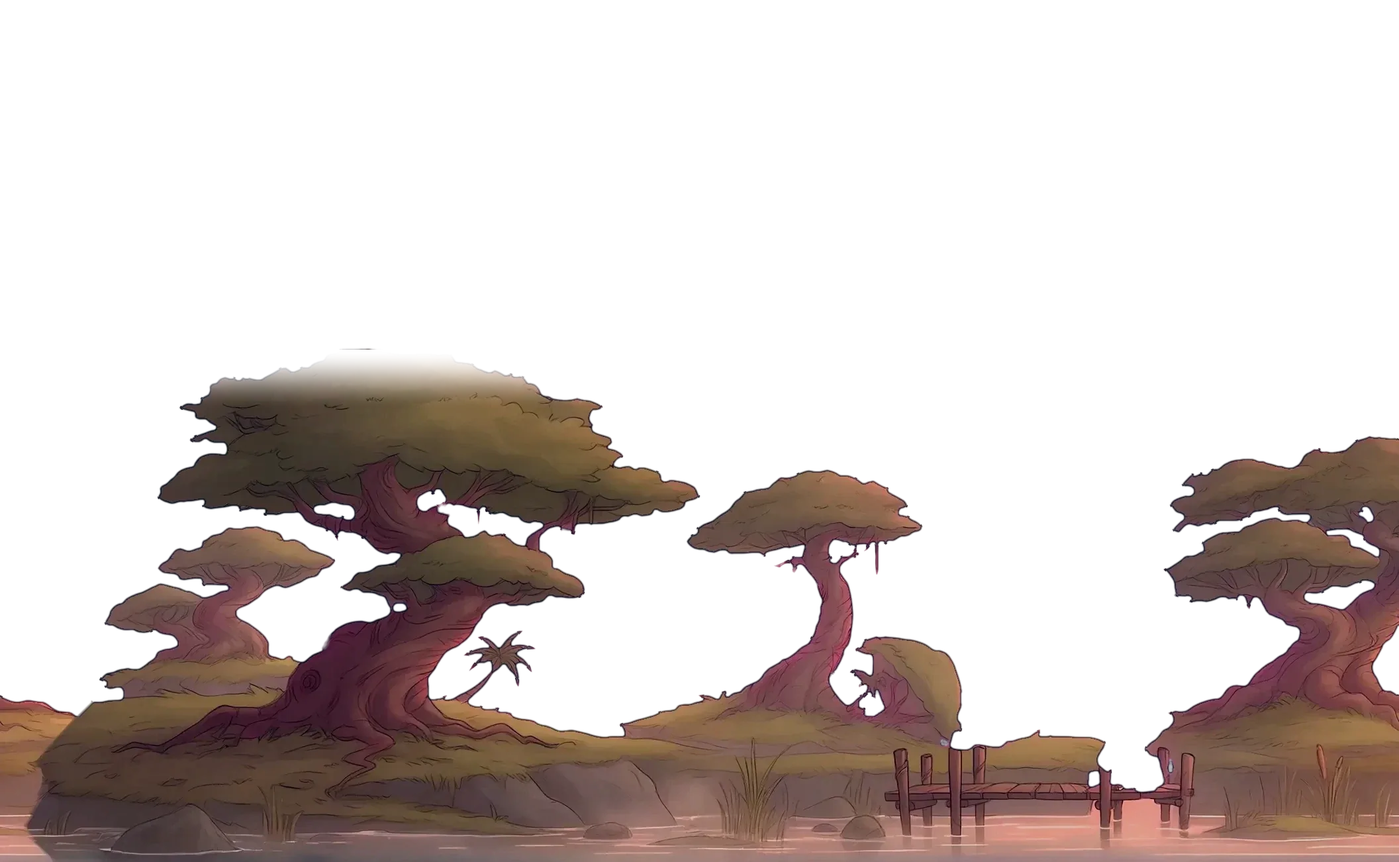
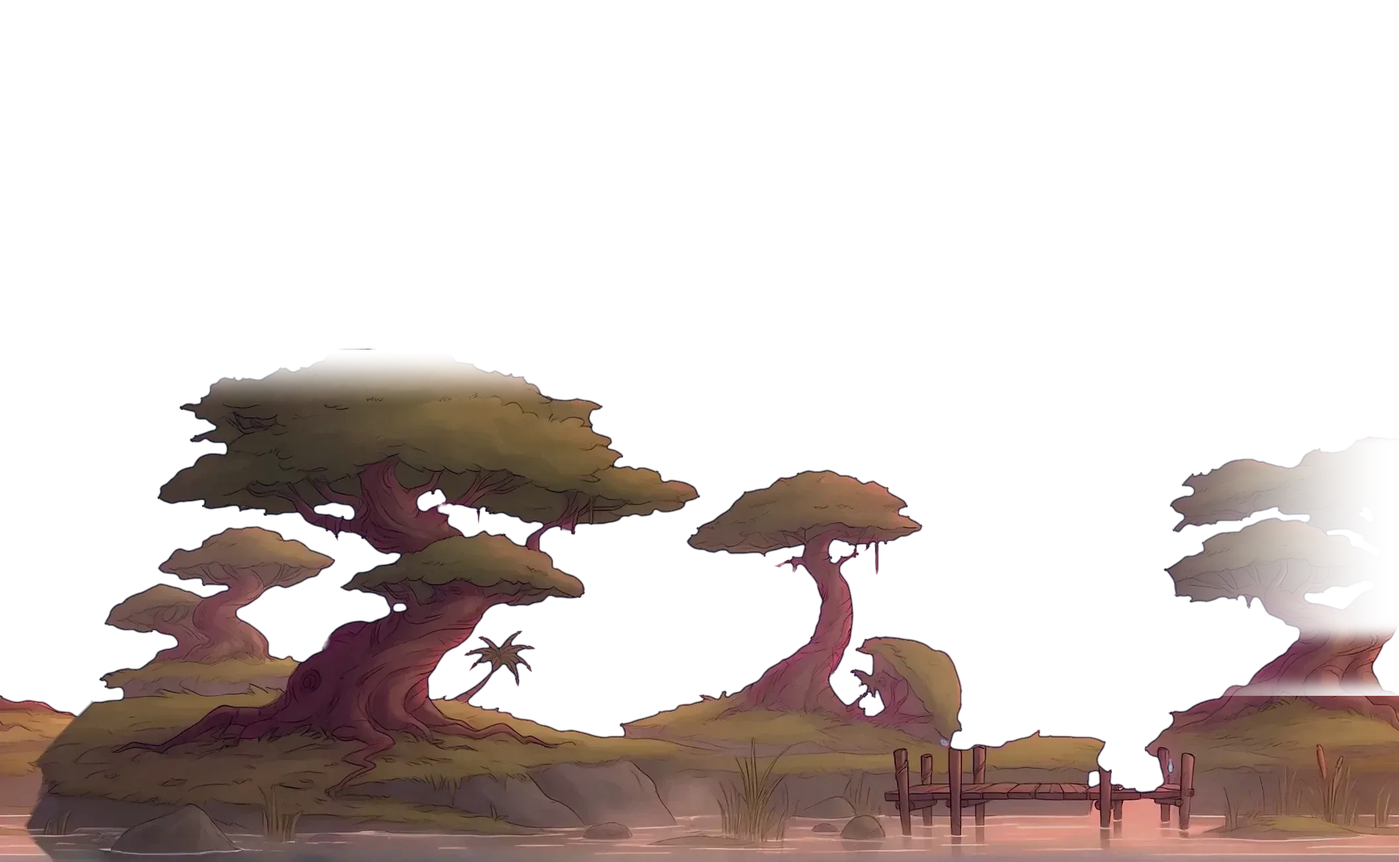
FIX-21: 2-1 relisted on the bounce-alone rule; a safe river's over pass is a band of its own shallow water; w2mist-mid's wrap join feathered
Relist (addlevel 2-1 --relist): seed list --check PASS, flown on normal-2-1. engine.ts drawRivers: a safe river's over pass draws
riverArt.ts drawSafeRiverOver (the shallow strip's top rows, SAFE_OVER 4 px above to 16 below the surface, 0.6), never the deep sheet to
the screen's foot (the lead's still review 1:36 PM ET). w2mist-mid.webp: tools/art/stripjoin.py feather (21.9% of rows cut at the join ->
0.1%; the hard panel edges in World 2's backdrop), as INT-9 did for w1kapok-mid.

Claude-Session: https://claude.ai/code/session_01FhBbYKAPWpYnKRcAy8Ntms

Changed region(s): [[0.8434, 0.4916, 1.0, 0.8295]]

diff --git a/src/game/gen2/proven/seeds-2-1.ts b/src/game/gen2/proven/seeds-2-1.ts
@@ -2,4 +2,4 @@
 // its proven plan packed (seedList.ts packPlan: Play replays it); quiet: each seed's longest quiet stretch on Normal (s, the goal run-out
 // excluded); outro: the goal section's px. Loaded on its own (seedList.ts loadSeedList): never import this file by name from the game.
 import type { PackedList } from '../seedList.ts';
-export const LIST: PackedList = {"dict":["body=edge","w2-21-edge","body=lianas","w2-21-down","body=shore","w2-21-rest","body=ride","w2-21-first-log","w2-21-bank","body=deep","w2-21-deep","body=liana","w2-21-creek","body=back","w2-21-back","body=spring","w2-21-high-bank","body=twin","w2-21-both-ways","body=jetty","w2-21-jetty","body=long","w2-21-long-log","body=gate","w2-21-gate"],"seeds":[1,2,3,4,5,6,7,8,9,10,11,12,13,14,15,16,17,18,19,20,21,22,23,24,25,26,27,28,29,30,31,32,33,34,35,36,37,38,39,40,41,42,43,44,45,46,47,48,49,50,51,52,53,54,55,56,57,58,59,60,61,62,63,64,65,66,67,68,69,70,71,72,73,74,75,76,77,78,79,80,81,82,83,84,85,86,87,88,89,90,91,92,93,94,95,96,97,98,99,100],"plans":["1:0|1.s.0.;3.s.2.;5.w.4.;7.w.6.;8.p.4.;5.w.4.;10.s.9.;5.w.4.;12.w.11.;14.w.13.;5.s.4.;16.p.15.;18.s.17.;20.s.19.;5.s.4.;22.p.21.;24.s.23.|","2:0|1.w.0.;3.w.2.;5.w.4.;7.w.6.;8.p.4.;5.s.4.;10.p.9.;5.w.4.;12.s.11.;14.p.13.;5.s.4.;16.w.15.;18.w.17.;20.p.19.;5.w.4.;22.p.21.;24.w.23.|","3:0|1.w.0.;3.p.2.;5.w.4.;7.w.6.;8.p.4.;5.s.4.;10.p.9.;5.w.4.;12.s.11.;14.s.13.;5.w.4.;16.w.15.;18.p.17.;20.s.19.;5.w.4.;22.p.21.;24.w.23.|","4:0|1.w.0.;3.w.2.;5.w.4.;7.s.6.;8.p.4.;5.w.4.;10.w.9.;5.w.4.;12.w.11.;14.w.13.;5.s.4.;16.w.15.;18.w.17.;20.s.19.;5.w.4.;22.w.21.;24.w.23.|","5:0|1.w.0.;3.s.2.;5.w.4.;7.w.6.;8.w.4.;5.w.4.;10.p.9.;5.s.4.;12.p.11.;14.s.13.;5.s.4.;16.p.15.;18.s.17.;20.w.19.;5.s.4.;22.s.21.;24.s.23.|","6:0|1.w.0.;3.s.2.;5.s.4.;7.s.6.;8.s.4.;5.w.4.;10.p.9.;5.w.4.;12.s.11.;14.s.13.;5.w.4.;16.w.15.;18.w.17.;20.w.19.;5.w.4.;22.s.21.;24.w.23.|","7:0|1.s.0.;3.w.2.;5.s.4.;7.w.6.;8.s.4.;5.w.4.;10.p.9.;5.w.4.;12.p.11.;14.s.13.;5.w.4.;16.p.15.;18.w.17.;20.s.19.;5.s.4.;22.p.21.;24.w.23.|","8:0|1.w.0.;3.p.2.;5.s.4.;7.s.6.;8.w.4.;5.w.4.;10.w.9.;5.w.4.;12.w.11.;14.p.13.;5.s.4.;16.p.15.;18.p.17.;20.p.19.;5.w.4.;22.w.21.;24.w.23.|","9:0|1.w.0.;3.p.2.;5.s.4.;7.s.6.;8.w.4.;5.w.4.;10.s.9.;5.s.4.;12.s.11.;14.p.13.;5.w.4.;16.s.15.;18.w.17.;20.p.19.;5.s.4.;22.w.21.;24.s.23.|","10:0|1.s.0.;3.s.2.;5.w.4.;7.p.6.;8.s.4.;5.w.4.;10.w.9.;5.s.4.;12.w.11.;14.w.13.;5.s.4.;16.p.15.;18.s.17.;20.w.19.;5.s.4.;22.p.21.;24.s.23.|","11:0|1.s.0.;3.p.2.;5.w.4.;7.s.6.;8.p.4.;5.s.4.;10.w.9.;5.s.4.;12.s.11.;14.p.13.;5.w.4.;16.w.15.;18.p.17.;20.p.19.;5.w.4.;22.w.21.;24.w.23.|","12:0|1.w.0.;3.p.2.;5.s.4.;7.s.6.;8.w.4.;5.s.4.;10.w.9.;5.s.4.;12.s.11.;14.p.13.;5.s.4.;16.p.15.;18.p.17.;20.w.19.;5.w.4.;22.p.21.;24.w.23.|","13:0|1.w.0.;3.w.2.;5.w.4.;7.s.6.;8.w.4.;5.w.4.;10.p.9.;5.w.4.;12.w.11.;14.s.13.;5.w.4.;16.w.15.;18.w.17.;20.w.19.;5.w.4.;22.w.21.;24.s.23.|","14:0|1.w.0.;3.s.2.;5.w.4.;7.s.6.;8.p.4.;5.w.4.;10.p.9.;5.s.4.;12.w.11.;14.p.13.;5.w.4.;16.w.15.;18.p.17.;20.p.19.;5.w.4.;22.p.21.;24.w.23.|","15:0|1.s.0.;3.p.2.;5.w.4.;7.w.6.;8.w.4.;5.s.4.;10.p.9.;5.s.4.;12.p.11.;14.s.13.;5.s.4.;16.s.15.;18.w.17.;20.w.19.;5.s.4.;22.p.21.;24.s.23.|","16:0|1.w.0.;3.w.2.;5.w.4.;7.s.6.;8.s.4.;5.s.4.;10.s.9.;5.s.4.;12.w.11.;14.p.13.;5.w.4.;16.w.15.;18.p.17.;20.w.19.;5.w.4.;22.s.21.;24.w.23.|","17:0|1.s.0.;3.w.2.;5.s.4.;7.w.6.;8.p.4.;5.w.4.;10.w.9.;5.s.4.;12.p.11.;14.w.13.;5.s.4.;16.s.15.;18.p.17.;20.s.19.;5.s.4.;22.p.21.;24.s.23.|","18:0|1.w.0.;3.w.2.;5.w.4.;7.p.6.;8.s.4.;5.w.4.;10.w.9.;5.s.4.;12.w.11.;14.s.13.;5.w.4.;16.w.15.;18.p.17.;20.w.19.;5.w.4.;22.p.21.;24.s.23.|","19:0|1.w.0.;3.p.2.;5.w.4.;7.s.6.;8.s.4.;5.w.4.;10.p.9.;5.w.4.;12.w.11.;14.s.13.;5.s.4.;16.w.15.;18.w.17.;20.p.19.;5.w.4.;22.p.21.;24.w.23.|","20:0|1.s.0.;3.w.2.;5.w.4.;7.s.6.;8.w.4.;5.s.4.;10.w.9.;5.w.4.;12.p.11.;14.w.13.;5.w.4.;16.s.15.;18.p.17.;20.s.19.;5.w.4.;22.p.21.;24.s.23.|","21:0|1.s.0.;3.w.2.;5.w.4.;7.s.6.;8.p.4.;5.w.4.;10.p.9.;5.s.4.;12.w.11.;14.p.13.;5.s.4.;16.w.15.;18.p.17.;20.s.19.;5.s.4.;22.w.21.;24.w.23.|","22:0|1.w.0.;3.w.2.;5.s.4.;7.w.6.;8.w.4.;5.s.4.;10.p.9.;5.w.4.;12.p.11.;14.w.13.;5.w.4.;16.w.15.;18.p.17.;20.w.19.;5.s.4.;22.s.21.;24.s.23.|","23:0|1.w.0.;3.s.2.;5.w.4.;7.s.6.;8.s.4.;5.w.4.;10.w.9.;5.w.4.;12.w.11.;14.s.13.;5.w.4.;16.p.15.;18.s.17.;20.w.19.;5.s.4.;22.w.21.;24.w.23.|","24:0|1.w.0.;3.w.2.;5.w.4.;7.s.6.;8.s.4.;5.s.4.;10.p.9.;5.w.4.;12.p.11.;14.p.13.;5.w.4.;16.w.15.;18.w.17.;20.s.19.;5.w.4.;22.w.21.;24.w.23.|","25:0|1.w.0.;3.w.2.;5.s.4.;7.s.6.;8.s.4.;5.s.4.;10.w.9.;5.s.4.;12.w.11.;14.s.13.;5.w.4.;16.s.15.;18.p.17.;20.w.19.;5.s.4.;22.w.21.;24.s.23.|","26:0|1.s.0.;3.s.2.;5.s.4.;7.s.6.;8.p.4.;5.s.4.;10.w.9.;5.w.4.;12.w.11.;14.p.13.;5.s.4.;16.p.15.;18.w.17.;20.w.19.;5.s.4.;22.p.21.;24.w.23.|","27:0|1.w.0.;3.w.2.;5.s.4.;7.w.6.;8.s.4.;5.s.4.;10.s.9.;5.w.4.;12.w.11.;14.p.13.;5.w.4.;16.s.15.;18.w.17.;20.s.19.;5.s.4.;22.p.21.;24.w.23.|","28:0|1.s.0.;3.p.2.;5.s.4.;7.s.6.;8.p.4.;5.w.4.;10.p.9.;5.s.4.;12.w.11.;14.p.13.;5.w.4.;16.p.15.;18.p.17.;20.w.19.;5.w.4.;22.w.21.;24.w.23.|","29:0|1.s.0.;3.s.2.;5.w.4.;7.s.6.;8.p.4.;5.w.4.;10.w.9.;5.w.4.;12.w.11.;14.w.13.;5.s.4.;16.p.15.;18.p.17.;20.w.19.;5.w.4.;22.p.21.;24.s.23.|","30:0|1.s.0.;3.s.2.;5.s.4.;7.w.6.;8.w.4.;5.w.4.;10.p.9.;5.w.4.;12.w.11.;14.p.13.;5.w.4.;16.s.15.;18.w.17.;20.s.19.;5.w.4.;22.s.21.;24.w.23.|","31:0|1.w.0.;3.p.2.;5.s.4.;7.s.6.;8.w.4.;5.s.4.;10.p.9.;5.w.4.;12.w.11.;14.w.13.;5.s.4.;16.w.15.;18.p.17.;20.p.19.;5.s.4.;22.p.21.;24.w.23.|","32:0|1.w.0.;3.p.2.;5.s.4.;7.s.6.;8.s.4.;5.s.4.;10.w.9.;5.w.4.;12.w.11.;14.w.13.;5.w.4.;16.w.15.;18.s.17.;20.w.19.;5.s.4.;22.w.21.;24.w.23.|","33:0|1.s.0.;3.w.2.;5.s.4.;7.s.6.;8.p.4.;5.w.4.;10.p.9.;5.w.4.;12.w.11.;14.p.13.;5.s.4.;16.p.15.;18.w.17.;20.w.19.;5.w.4.;22.s.21.;24.s.23.|","34:0|1.s.0.;3.p.2.;5.w.4.;7.s.6.;8.w.4.;5.w.4.;10.w.9.;5.w.4.;12.s.11.;14.p.13.;5.w.4.;16.s.15.;18.p.17.;20.s.19.;5.w.4.;22.w.21.;24.w.23.|","35:0|1.w.0.;3.w.2.;5.w.4.;7.s.6.;8.s.4.;5.s.4.;10.s.9.;5.w.4.;12.w.11.;14.p.13.;5.s.4.;16.w.15.;18.w.17.;20.s.19.;5.w.4.;22.w.21.;24.w.23.|","36:0|1.s.0.;3.w.2.;5.w.4.;7.s.6.;8.p.4.;5.s.4.;10.s.9.;5.s.4.;12.s.11.;14.w.13.;5.s.4.;16.w.15.;18.w.17.;20.s.19.;5.w.4.;22.w.21.;24.w.23.|","37:0|1.s.0.;3.p.2.;5.s.4.;7.s.6.;8.w.4.;5.w.4.;10.p.9.;5.w.4.;12.p.11.;14.p.13.;5.s.4.;16.s.15.;18.s.17.;20.p.19.;5.w.4.;22.w.21.;24.s.23.|","38:0|1.w.0.;3.p.2.;5.w.4.;7.s.6.;8.w.4.;5.w.4.;10.s.9.;5.w.4.;12.s.11.;14.s.13.;5.w.4.;16.p.15.;18.p.17.;20.w.19.;5.s.4.;22.p.21.;24.w.23.|","39:0|1.w.0.;3.w.2.;5.s.4.;7.s.6.;8.w.4.;5.w.4.;10.w.9.;5.s.4.;12.s.11.;14.p.13.;5.w.4.;16.p.15.;18.s.17.;20.w.19.;5.w.4.;22.w.21.;24.s.23.|","40:0|1.w.0.;3.w.2.;5.s.4.;7.w.6.;8.s.4.;5.w.4.;10.w.9.;5.s.4.;12.w.11.;14.s.13.;5.w.4.;16.s.15.;18.s.17.;20.w.19.;5.s.4.;22.w.21.;24.s.23.|","41:0|1.w.0.;3.w.2.;5.w.4.;7.s.6.;8.w.4.;5.w.4.;10.p.9.;5.w.4.;12.s.11.;14.s.13.;5.s.4.;16.w.15.;18.s.17.;20.s.19.;5.w.4.;22.w.21.;24.s.23.|","42:0|1.s.0.;3.w.2.;5.w.4.;7.s.6.;8.s.4.;5.w.4.;10.w.9.;5.w.4.;12.w.11.;14.s.13.;5.s.4.;16.p.15.;18.w.17.;20.s.19.;5.w.4.;22.s.21.;24.w.23.|","43:0|1.w.0.;3.w.2.;5.w.4.;7.p.6.;8.s.4.;5.w.4.;10.p.9.;5.s.4.;12.w.11.;14.p.13.;5.w.4.;16.p.15.;18.p.17.;20.w.19.;5.w.4.;22.p.21.;24.s.23.|","44:0|1.s.0.;3.p.2.;5.w.4.;7.w.6.;8.w.4.;5.s.4.;10.w.9.;5.w.4.;12.w.11.;14.s.13.;5.s.4.;16.w.15.;18.w.17.;20.w.19.;5.s.4.;22.s.21.;24.w.23.|","45:0|1.w.0.;3.s.2.;5.s.4.;7.w.6.;8.s.4.;5.s.4.;10.s.9.;5.s.4.;12.w.11.;14.w.13.;5.w.4.;16.s.15.;18.p.17.;20.w.19.;5.w.4.;22.p.21.;24.w.23.|","46:0|1.w.0.;3.w.2.;5.w.4.;7.w.6.;8.p.4.;5.w.4.;10.w.9.;5.w.4.;12.s.11.;14.s.13.;5.w.4.;16.s.15.;18.p.17.;20.s.19.;5.s.4.;22.p.21.;24.w.23.|","47:0|1.s.0.;3.w.2.;5.w.4.;7.w.6.;8.w.4.;5.s.4.;10.w.9.;5.w.4.;12.w.11.;14.p.13.;5.s.4.;16.w.15.;18.p.17.;20.w.19.;5.s.4.;22.s.21.;24.w.23.|","48:0|1.s.0.;3.s.2.;5.s.4.;7.p.6.;8.p.4.;5.s.4.;10.p.9.;5.w.4.;12.p.11.;14.s.13.;5.s.4.;16.w.15.;18.p.17.;20.p.19.;5.w.4.;22.p.21.;24.w.23.|","49:0|1.w.0.;3.p.2.;5.s.4.;7.w.6.;8.p.4.;5.w.4.;10.w.9.;5.w.4.;12.s.11.;14.w.13.;5.w.4.;16.w.15.;18.s.17.;20.s.19.;5.w.4.;22.s.21.;24.s.23.|","50:0|1.s.0.;3.p.2.;5.s.4.;7.w.6.;8.w.4.;5.w.4.;10.s.9.;5.w.4.;12.w.11.;14.w.13.;5.w.4.;16.w.15.;18.p.17.;20.p.19.;5.s.4.;22.p.21.;24.w.23.|","51:0|1.w.0.;3.p.2.;5.w.4.;7.w.6.;8.s.4.;5.s.4.;10.w.9.;5.s.4.;12.w.11.;14.p.13.;5.s.4.;16.p.15.;18.w.17.;20.w.19.;5.w.4.;22.p.21.;24.w.23.|","52:0|1.w.0.;3.p.2.;5.s.4.;7.s.6.;8.s.4.;5.s.4.;10.s.9.;5.w.4.;12.p.11.;14.s.13.;5.s.4.;16.w.15.;18.p.17.;20.p.19.;5.w.4.;22.w.21.;24.s.23.|","53:0|1.w.0.;3.s.2.;5.w.4.;7.s.6.;8.w.4.;5.w.4.;10.w.9.;5.w.4.;12.s.11.;14.p.13.;5.s.4.;16.w.15.;18.p.17.;20.p.19.;5.w.4.;22.s.21.;24.w.23.|","54:0|1.s.0.;3.s.2.;5.s.4.;7.p.6.;8.p.4.;5.s.4.;10.w.9.;5.s.4.;12.p.11.;14.s.13.;5.s.4.;16.w.15.;18.p.17.;20.w.19.;5.s.4.;22.s.21.;24.w.23.|","55:0|1.w.0.;3.s.2.;5.w.4.;7.w.6.;8.w.4.;5.w.4.;10.w.9.;5.w.4.;12.p.11.;14.s.13.;5.w.4.;16.w.15.;18.w.17.;20.w.19.;5.s.4.;22.s.21.;24.w.23.|","56:0|1.s.0.;3.w.2.;5.w.4.;7.w.6.;8.s.4.;5.w.4.;10.s.9.;5.s.4.;12.w.11.;14.p.13.;5.w.4.;16.s.15.;18.w.17.;20.w.19.;5.s.4.;22.w.21.;24.s.23.|","57:0|1.s.0.;3.w.2.;5.w.4.;7.w.6.;8.w.4.;5.w.4.;10.s.9.;5.s.4.;12.w.11.;14.p.13.;5.s.4.;16.s.15.;18.s.17.;20.s.19.;5.w.4.;22.p.21.;24.w.23.|","58:0|1.s.0.;3.p.2.;5.w.4.;7.w.6.;8.s.4.;5.w.4.;10.w.9.;5.w.4.;12.s.11.;14.p.13.;5.w.4.;16.s.15.;18.p.17.;20.w.19.;5.w.4.;22.s.21.;24.s.23.|","59:0|1.w.0.;3.p.2.;5.w.4.;7.p.6.;8.w.4.;5.w.4.;10.w.9.;5.w.4.;12.w.11.;14.p.13.;5.w.4.;16.p.15.;18.p.17.;20.s.19.;5.w.4.;22.p.21.;24.w.23.|","60:0|1.w.0.;3.w.2.;5.w.4.;7.s.6.;8.w.4.;5.w.4.;10.s.9.;5.w.4.;12.s.11.;14.p.13.;5.s.4.;16.w.15.;18.p.17.;20.w.19.;5.w.4.;22.w.21.;24.w.23.|","61:0|1.w.0.;3.w.2.;5.w.4.;7.w.6.;8.p.4.;5.s.4.;10.p.9.;5.s.4.;12.p.11.;14.s.13.;5.w.4.;16.w.15.;18.p.17.;20.s.19.;5.w.4.;22.p.21.;24.w.23.|","62:0|1.w.0.;3.s.2.;5.w.4.;7.s.6.;8.w.4.;5.s.4.;10.p.9.;5.s.4.;12.w.11.;14.w.13.;5.w.4.;16.p.15.;18.p.17.;20.p.19.;5.s.4.;22.p.21.;24.w.23.|","63:0|1.w.0.;3.w.2.;5.s.4.;7.s.6.;8.w.4.;5.w.4.;10.s.9.;5.s.4.;12.w.11.;14.p.13.;5.w.4.;16.p.15.;18.s.17.;20.s.19.;5.s.4.;22.p.21.;24.s.23.|","64:0|1.w.0.;3.p.2.;5.s.4.;7.p.6.;8.s.4.;5.s.4.;10.p.9.;5.s.4.;12.p.11.;14.w.13.;5.s.4.;16.p.15.;18.p.17.;20.w.19.;5.s.4.;22.s.21.;24.s.23.|","65:0|1.s.0.;3.w.2.;5.w.4.;7.w.6.;8.s.4.;5.s.4.;10.p.9.;5.s.4.;12.w.11.;14.w.13.;5.w.4.;16.s.15.;18.w.17.;20.p.19.;5.s.4.;22.p.21.;24.w.23.|","66:0|1.w.0.;3.w.2.;5.w.4.;7.p.6.;8.s.4.;5.s.4.;10.p.9.;5.s.4.;12.p.11.;14.p.13.;5.w.4.;16.p.15.;18.p.17.;20.w.19.;5.w.4.;22.s.21.;24.w.23.|","67:0|1.s.0.;3.s.2.;5.w.4.;7.s.6.;8.s.4.;5.s.4.;10.s.9.;5.s.4.;12.w.11.;14.p.13.;5.s.4.;16.p.15.;18.w.17.;20.s.19.;5.s.4.;22.p.21.;24.w.23.|","68:0|1.s.0.;3.p.2.;5.w.4.;7.w.6.;8.s.4.;5.w.4.;10.p.9.;5.w.4.;12.w.11.;14.p.13.;5.w.4.;16.w.15.;18.p.17.;20.s.19.;5.w.4.;22.s.21.;24.w.23.|","69:0|1.w.0.;3.s.2.;5.w.4.;7.p.6.;8.w.4.;5.s.4.;10.p.9.;5.w.4.;12.s.11.;14.p.13.;5.s.4.;16.w.15.;18.p.17.;20.w.19.;5.w.4.;22.p.21.;24.w.23.|","70:0|1.w.0.;3.p.2.;5.s.4.;7.w.6.;8.s.4.;5.w.4.;10.w.9.;5.s.4.;12.w.11.;14.w.13.;5.s.4.;16.w.15.;18.p.17.;20.w.19.;5.s.4.;22.p.21.;24.w.23.|","71:0|1.w.0.;3.p.2.;5.w.4.;7.w.6.;8.p.4.;5.s.4.;10.p.9.;5.w.4.;12.s.11.;14.p.13.;5.s.4.;16.w.15.;18.p.17.;20.w.19.;5.s.4.;22.s.21.;24.w.23.|","72:0|1.w.0.;3.w.2.;5.s.4.;7.w.6.;8.w.4.;5.w.4.;10.w.9.;5.w.4.;12.p.11.;14.w.13.;5.w.4.;16.w.15.;18.p.17.;20.s.19.;5.w.4.;22.p.21.;24.w.23.|","73:0|1.w.0.;3.p.2.;5.s.4.;7.w.6.;8.p.4.;5.w.4.;10.w.9.;5.s.4.;12.w.11.;14.p.13.;5.w.4.;16.p.15.;18.p.17.;20.s.19.;5.s.4.;22.p.21.;24.w.23.|","74:0|1.w.0.;3.p.2.;5.w.4.;7.p.6.;8.s.4.;5.s.4.;10.s.9.;5.s.4.;12.w.11.;14.p.13.;5.s.4.;16.p.15.;18.s.17.;20.w.19.;5.w.4.;22.p.21.;24.s.23.|","75:0|1.s.0.;3.p.2.;5.w.4.;7.w.6.;8.p.4.;5.w.4.;10.w.9.;5.w.4.;12.w.11.;14.s.13.;5.s.4.;16.w.15.;18.s.17.;20.w.19.;5.w.4.;22.p.21.;24.w.23.|","76:0|1.w.0.;3.w.2.;5.w.4.;7.s.6.;8.w.4.;5.w.4.;10.w.9.;5.s.4.;12.w.11.;14.p.13.;5.w.4.;16.w.15.;18.p.17.;20.p.19.;5.s.4.;22.s.21.;24.w.23.|","77:0|1.w.0.;3.w.2.;5.s.4.;7.w.6.;8.w.4.;5.w.4.;10.w.9.;5.s.4.;12.w.11.;14.w.13.;5.s.4.;16.s.15.;18.p.17.;20.s.19.;5.w.4.;22.s.21.;24.s.23.|","78:0|1.w.0.;3.w.2.;5.w.4.;7.s.6.;8.w.4.;5.w.4.;10.s.9.;5.s.4.;12.w.11.;14.s.13.;5.w.4.;16.p.15.;18.w.17.;20.w.19.;5.s.4.;22.s.21.;24.w.23.|","79:0|1.s.0.;3.p.2.;5.w.4.;7.w.6.;8.w.4.;5.w.4.;10.w.9.;5.w.4.;12.p.11.;14.w.13.;5.s.4.;16.p.15.;18.s.17.;20.p.19.;5.w.4.;22.s.21.;24.s.23.|","80:0|1.s.0.;3.w.2.;5.s.4.;7.s.6.;8.w.4.;5.s.4.;10.p.9.;5.s.4.;12.s.11.;14.p.13.;5.w.4.;16.w.15.;18.s.17.;20.w.19.;5.w.4.;22.p.21.;24.s.23.|","81:0|1.w.0.;3.s.2.;5.s.4.;7.s.6.;8.p.4.;5.s.4.;10.p.9.;5.w.4.;12.p.11.;14.p.13.;5.s.4.;16.p.15.;18.s.17.;20.p.19.;5.w.4.;22.w.21.;24.s.23.|","82:0|1.w.0.;3.w.2.;5.w.4.;7.p.6.;8.s.4.;5.s.4.;10.w.9.;5.s.4.;12.p.11.;14.s.13.;5.s.4.;16.w.15.;18.p.17.;20.p.19.;5.w.4.;22.s.21.;24.w.23.|","83:0|1.s.0.;3.w.2.;5.s.4.;7.w.6.;8.s.4.;5.w.4.;10.w.9.;5.s.4.;12.w.11.;14.w.13.;5.s.4.;16.p.15.;18.p.17.;20.p.19.;5.w.4.;22.p.21.;24.s.23.|","84:0|1.s.0.;3.s.2.;5.w.4.;7.w.6.;8.p.4.;5.w.4.;10.p.9.;5.w.4.;12.s.11.;14.w.13.;5.s.4.;16.p.15.;18.p.17.;20.w.19.;5.w.4.;22.p.21.;24.s.23.|","85:0|1.s.0.;3.w.2.;5.w.4.;7.w.6.;8.p.4.;5.s.4.;10.s.9.;5.w.4.;12.s.11.;14.w.13.;5.w.4.;16.s.15.;18.w.17.;20.p.19.;5.w.4.;22.w.21.;24.w.23.|","86:0|1.s.0.;3.p.2.;5.s.4.;7.w.6.;8.p.4.;5.s.4.;10.p.9.;5.s.4.;12.p.11.;14.w.13.;5.s.4.;16.p.15.;18.p.17.;20.p.19.;5.w.4.;22.w.21.;24.w.23.|","87:0|1.s.0.;3.p.2.;5.w.4.;7.w.6.;8.p.4.;5.s.4.;10.w.9.;5.s.4.;12.w.11.;14.w.13.;5.w.4.;16.s.15.;18.w.17.;20.w.19.;5.w.4.;22.w.21.;24.s.23.|","88:0|1.w.0.;3.p.2.;5.w.4.;7.w.6.;8.w.4.;5.s.4.;10.p.9.;5.s.4.;12.p.11.;14.w.13.;5.w.4.;16.s.15.;18.p.17.;20.p.19.;5.w.4.;22.p.21.;24.s.23.|","89:0|1.s.0.;3.p.2.;5.w.4.;7.w.6.;8.s.4.;5.w.4.;10.s.9.;5.w.4.;12.s.11.;14.w.13.;5.s.4.;16.p.15.;18.p.17.;20.w.19.;5.s.4.;22.p.21.;24.s.23.|","90:0|1.s.0.;3.p.2.;5.s.4.;7.s.6.;8.p.4.;5.w.4.;10.w.9.;5.w.4.;12.w.11.;14.w.13.;5.s.4.;16.s.15.;18.w.17.;20.s.19.;5.s.4.;22.w.21.;24.w.23.|","91:0|1.w.0.;3.s.2.;5.w.4.;7.w.6.;8.w.4.;5.s.4.;10.p.9.;5.s.4.;12.w.11.;14.p.13.;5.s.4.;16.w.15.;18.p.17.;20.s.19.;5.w.4.;22.p.21.;24.w.23.|","92:0|1.s.0.;3.p.2.;5.w.4.;7.w.6.;8.s.4.;5.s.4.;10.s.9.;5.s.4.;12.p.11.;14.w.13.;5.w.4.;16.s.15.;18.p.17.;20.w.19.;5.s.4.;22.p.21.;24.s.23.|","93:0|1.w.0.;3.w.2.;5.w.4.;7.p.6.;8.s.4.;5.s.4.;10.p.9.;5.w.4.;12.p.11.;14.p.13.;5.w.4.;16.p.15.;18.w.17.;20.w.19.;5.s.4.;22.w.21.;24.w.23.|","94:0|1.w.0.;3.w.2.;5.w.4.;7.s.6.;8.s.4.;5.s.4.;10.s.9.;5.w.4.;12.w.11.;14.w.13.;5.w.4.;16.s.15.;18.w.17.;20.w.19.;5.s.4.;22.w.21.;24.w.23.|","95:0|1.w.0.;3.s.2.;5.w.4.;7.s.6.;8.p.4.;5.w.4.;10.w.9.;5.s.4.;12.w.11.;14.w.13.;5.w.4.;16.p.15.;18.s.17.;20.p.19.;5.s.4.;22.w.21.;24.s.23.|","96:0|1.w.0.;3.w.2.;5.w.4.;7.w.6.;8.w.4.;5.w.4.;10.w.9.;5.s.4.;12.w.11.;14.p.13.;5.s.4.;16.w.15.;18.p.17.;20.s.19.;5.w.4.;22.w.21.;24.w.23.|","97:0|1.w.0.;3.p.2.;5.s.4.;7.s.6.;8.p.4.;5.w.4.;10.p.9.;5.s.4.;12.w.11.;14.p.13.;5.w.4.;16.s.15.;18.w.17.;20.w.19.;5.w.4.;22.p.21.;24.w.23.|","98:0|1.w.0.;3.w.2.;5.s.4.;7.w.6.;8.w.4.;5.s.4.;10.w.9.;5.s.4.;12.p.11.;14.p.13.;5.s.4.;16.p.15.;18.w.17.;20.w.19.;5.w.4.;22.s.21.;24.w.23.|","99:0|1.w.0.;3.w.2.;5.s.4.;7.w.6.;8.p.4.;5.w.4.;10.w.9.;5.s.4.;12.s.11.;14.w.13.;5.w.4.;16.p.15.;18.s.17.;20.p.19.;5.w.4.;22.w.21.;24.w.23.|","100:0|1.w.0.;3.w.2.;5.s.4.;7.s.6.;8.p.4.;5.w.4.;10.s.9.;5.w.4.;12.s.11.;14.s.13.;5.s.4.;16.s.15.;18.s.17.;20.s.19.;5.w.4.;22.p.21.;24.w.23.|"],"quiet":[3.7,3.8,3.5,3.7,3.7,3.5,3.7,3.7,3.7,3.7,3.8,3.5,3.5,3.7,3.8,3.5,3.7,3.7,3.7,3.5,3.7,3.5,3.7,3.7,3.8,3.8,3.7,3.7,3.7,3.5,3.5,3.5,3.5,3.5,3.7,3.7,3.5,3.5,3.7,3.5,3.5,3.5,3.7,3.5,3.8,3.7,3.5,3.5,3.5,3.5,3.7,3.8,3.7,3.7,3.5,3.7,3.7,3.5,3.5,3.7,3.8,3.7,3.5,3.5,3.7,3.8,3.7,3.7,3.8,3.5,3.5,3.7,3.7,3.7,3.7,3.7,3.7,3.7,3.5,3.7,3.7,3.7,3.5,3.8,3.8,3.8,3.5,3.5,3.7,3.5,3.8,3.8,3.7,3.5,3.5,3.7,3.5,3.7,3.7,3.5],"outro":[926,939,934,939,927,931,927,930,929,935,929,933,931,930,934,935,933,936,925,932,927,925,935,925,930,938,939,937,934,925,939,922,934,925,936,930,920,924,928,938,926,927,933,938,931,924,928,924,923,927,940,936,933,939,921,923,920,926,929,932,933,921,922,927,936,930,926,925,930,921,923,920,934,937,934,931,924,934,920,937,940,927,928,926,920,928,929,936,937,922,929,926,923,934,924,929,933,937,926,939]};
+export const LIST: PackedList = {"dict":["body=edge","w2-21-edge","body=lianas","w2-21-down","body=shore","w2-21-rest","body=ride","w2-21-first-log","w2-21-bank","body=deep","w2-21-deep","body=liana","w2-21-creek","body=back","w2-21-back","body=spring","w2-21-high-bank","body=twin","w2-21-both-ways","body=jetty","w2-21-jetty","body=long","w2-21-long-log","body=gate","w2-21-gate"],"seeds":[1,2,3,4,5,6,7,8,9,10,11,12,13,14,15,16,17,18,19,20,21,22,23,24,25,26,27,28,29,30,31,32,33,34,35,36,37,38,39,40,41,42,43,44,45,46,47,48,49,50,51,52,53,54,55,56,57,58,59,60,61,62,63,64,65,66,67,68,69,70,71,72,73,74,75,76,77,78,79,80,81,82,83,84,85,86,87,88,89,90,91,92,93,94,95,96,97,98,99,100],"plans":["1:0|1.s.0.;3.s.2.;5.w.4.;7.w.6.;8.p.4.;5.w.4.;10.s.9.;5.w.4.;12.w.11.;14.w.13.;5.s.4.;16.p.15.;18.s.17.;20.s.19.;5.s.4.;22.p.21.;24.s.23.|","2:0|1.w.0.;3.w.2.;5.w.4.;7.w.6.;8.p.4.;5.s.4.;10.p.9.;5.w.4.;12.s.11.;14.p.13.;5.s.4.;16.w.15.;18.w.17.;20.p.19.;5.w.4.;22.p.21.;24.w.23.|","3:0|1.w.0.;3.p.2.;5.w.4.;7.w.6.;8.p.4.;5.s.4.;10.p.9.;5.w.4.;12.s.11.;14.s.13.;5.w.4.;16.w.15.;18.p.17.;20.s.19.;5.w.4.;22.p.21.;24.w.23.|","4:0|1.w.0.;3.w.2.;5.w.4.;7.s.6.;8.p.4.;5.w.4.;10.w.9.;5.w.4.;12.w.11.;14.w.13.;5.s.4.;16.w.15.;18.w.17.;20.s.19.;5.w.4.;22.w.21.;24.w.23.|","5:0|1.w.0.;3.s.2.;5.w.4.;7.w.6.;8.w.4.;5.w.4.;10.p.9.;5.s.4.;12.p.11.;14.s.13.;5.s.4.;16.p.15.;18.s.17.;20.w.19.;5.s.4.;22.s.21.;24.s.23.|","6:0|1.w.0.;3.s.2.;5.s.4.;7.s.6.;8.s.4.;5.w.4.;10.p.9.;5.w.4.;12.s.11.;14.s.13.;5.w.4.;16.w.15.;18.w.17.;20.w.19.;5.w.4.;22.s.21.;24.w.23.|","7:0|1.s.0.;3.w.2.;5.s.4.;7.w.6.;8.s.4.;5.w.4.;10.p.9.;5.w.4.;12.p.11.;14.s.13.;5.w.4.;16.p.15.;18.w.17.;20.s.19.;5.s.4.;22.p.21.;24.w.23.|","8:0|1.w.0.;3.p.2.;5.s.4.;7.s.6.;8.w.4.;5.w.4.;10.w.9.;5.w.4.;12.w.11.;14.p.13.;5.s.4.;16.p.15.;18.p.17.;20.p.19.;5.w.4.;22.w.21.;24.w.23.|","9:0|1.w.0.;3.p.2.;5.s.4.;7.s.6.;8.w.4.;5.w.4.;10.s.9.;5.s.4.;12.s.11.;14.p.13.;5.w.4.;16.s.15.;18.w.17.;20.p.19.;5.s.4.;22.w.21.;24.s.23.|","10:0|1.s.0.;3.s.2.;5.w.4.;7.p.6.;8.s.4.;5.w.4.;10.w.9.;5.s.4.;12.w.11.;14.w.13.;5.s.4.;16.p.15.;18.s.17.;20.w.19.;5.s.4.;22.p.21.;24.s.23.|","11:0|1.s.0.;3.p.2.;5.w.4.;7.s.6.;8.p.4.;5.s.4.;10.w.9.;5.s.4.;12.s.11.;14.p.13.;5.w.4.;16.w.15.;18.p.17.;20.p.19.;5.w.4.;22.w.21.;24.w.23.|","12:0|1.w.0.;3.p.2.;5.s.4.;7.s.6.;8.w.4.;5.s.4.;10.w.9.;5.s.4.;12.s.11.;14.p.13.;5.s.4.;16.p.15.;18.p.17.;20.w.19.;5.w.4.;22.p.21.;24.w.23.|","13:0|1.w.0.;3.w.2.;5.w.4.;7.s.6.;8.w.4.;5.w.4.;10.p.9.;5.w.4.;12.w.11.;14.s.13.;5.w.4.;16.w.15.;18.w.17.;20.w.19.;5.w.4.;22.w.21.;24.s.23.|","14:0|1.w.0.;3.s.2.;5.w.4.;7.s.6.;8.p.4.;5.w.4.;10.p.9.;5.s.4.;12.w.11.;14.p.13.;5.w.4.;16.w.15.;18.p.17.;20.p.19.;5.w.4.;22.p.21.;24.w.23.|","15:0|1.s.0.;3.p.2.;5.w.4.;7.w.6.;8.w.4.;5.s.4.;10.p.9.;5.s.4.;12.p.11.;14.s.13.;5.s.4.;16.s.15.;18.w.17.;20.w.19.;5.s.4.;22.p.21.;24.s.23.|","16:0|1.w.0.;3.w.2.;5.w.4.;7.s.6.;8.s.4.;5.s.4.;10.s.9.;5.s.4.;12.w.11.;14.p.13.;5.w.4.;16.w.15.;18.p.17.;20.w.19.;5.w.4.;22.s.21.;24.w.23.|","17:0|1.s.0.;3.w.2.;5.s.4.;7.w.6.;8.p.4.;5.w.4.;10.w.9.;5.s.4.;12.p.11.;14.w.13.;5.s.4.;16.s.15.;18.p.17.;20.s.19.;5.s.4.;22.p.21.;24.s.23.|","18:0|1.w.0.;3.w.2.;5.w.4.;7.p.6.;8.s.4.;5.w.4.;10.w.9.;5.s.4.;12.w.11.;14.s.13.;5.w.4.;16.w.15.;18.p.17.;20.w.19.;5.w.4.;22.p.21.;24.s.23.|","19:0|1.w.0.;3.p.2.;5.w.4.;7.s.6.;8.s.4.;5.w.4.;10.p.9.;5.w.4.;12.w.11.;14.s.13.;5.s.4.;16.w.15.;18.w.17.;20.p.19.;5.w.4.;22.p.21.;24.w.23.|","20:0|1.s.0.;3.w.2.;5.w.4.;7.s.6.;8.w.4.;5.s.4.;10.w.9.;5.w.4.;12.p.11.;14.w.13.;5.w.4.;16.s.15.;18.p.17.;20.s.19.;5.w.4.;22.p.21.;24.s.23.|","21:0|1.s.0.;3.w.2.;5.w.4.;7.s.6.;8.p.4.;5.w.4.;10.p.9.;5.s.4.;12.w.11.;14.p.13.;5.s.4.;16.w.15.;18.p.17.;20.s.19.;5.s.4.;22.w.21.;24.w.23.|","22:0|1.w.0.;3.w.2.;5.s.4.;7.w.6.;8.w.4.;5.s.4.;10.p.9.;5.w.4.;12.p.11.;14.w.13.;5.w.4.;16.w.15.;18.p.17.;20.w.19.;5.s.4.;22.s.21.;24.s.23.|","23:0|1.w.0.;3.s.2.;5.w.4.;7.s.6.;8.s.4.;5.w.4.;10.w.9.;5.w.4.;12.w.11.;14.s.13.;5.w.4.;16.p.15.;18.s.17.;20.w.19.;5.s.4.;22.w.21.;24.w.23.|","24:0|1.w.0.;3.w.2.;5.w.4.;7.s.6.;8.s.4.;5.s.4.;10.p.9.;5.w.4.;12.p.11.;14.p.13.;5.w.4.;16.w.15.;18.w.17.;20.s.19.;5.w.4.;22.w.21.;24.w.23.|","25:0|1.w.0.;3.w.2.;5.s.4.;7.s.6.;8.s.4.;5.s.4.;10.w.9.;5.s.4.;12.w.11.;14.s.13.;5.w.4.;16.s.15.;18.p.17.;20.w.19.;5.s.4.;22.w.21.;24.s.23.|","26:0|1.s.0.;3.s.2.;5.s.4.;7.s.6.;8.p.4.;5.s.4.;10.w.9.;5.w.4.;12.w.11.;14.p.13.;5.s.4.;16.p.15.;18.w.17.;20.w.19.;5.s.4.;22.p.21.;24.w.23.|","27:0|1.w.0.;3.w.2.;5.s.4.;7.w.6.;8.s.4.;5.s.4.;10.s.9.;5.w.4.;12.w.11.;14.p.13.;5.w.4.;16.s.15.;18.w.17.;20.s.19.;5.s.4.;22.p.21.;24.w.23.|","28:0|1.s.0.;3.p.2.;5.s.4.;7.s.6.;8.p.4.;5.w.4.;10.p.9.;5.s.4.;12.w.11.;14.p.13.;5.w.4.;16.p.15.;18.p.17.;20.w.19.;5.w.4.;22.w.21.;24.w.23.|","29:0|1.s.0.;3.s.2.;5.w.4.;7.s.6.;8.p.4.;5.w.4.;10.w.9.;5.w.4.;12.w.11.;14.w.13.;5.s.4.;16.p.15.;18.p.17.;20.w.19.;5.w.4.;22.p.21.;24.s.23.|","30:0|1.s.0.;3.s.2.;5.s.4.;7.w.6.;8.w.4.;5.w.4.;10.p.9.;5.w.4.;12.w.11.;14.p.13.;5.w.4.;16.s.15.;18.w.17.;20.s.19.;5.w.4.;22.s.21.;24.w.23.|","31:0|1.w.0.;3.p.2.;5.s.4.;7.s.6.;8.w.4.;5.s.4.;10.p.9.;5.w.4.;12.w.11.;14.w.13.;5.s.4.;16.w.15.;18.p.17.;20.p.19.;5.s.4.;22.p.21.;24.w.23.|","32:0|1.w.0.;3.p.2.;5.s.4.;7.s.6.;8.s.4.;5.s.4.;10.w.9.;5.w.4.;12.w.11.;14.w.13.;5.w.4.;16.w.15.;18.s.17.;20.w.19.;5.s.4.;22.w.21.;24.w.23.|","33:0|1.s.0.;3.w.2.;5.s.4.;7.s.6.;8.p.4.;5.w.4.;10.p.9.;5.w.4.;12.w.11.;14.p.13.;5.s.4.;16.p.15.;18.w.17.;20.w.19.;5.w.4.;22.s.21.;24.s.23.|","34:0|1.s.0.;3.p.2.;5.w.4.;7.s.6.;8.w.4.;5.w.4.;10.w.9.;5.w.4.;12.s.11.;14.p.13.;5.w.4.;16.s.15.;18.p.17.;20.s.19.;5.w.4.;22.w.21.;24.w.23.|","35:0|1.w.0.;3.w.2.;5.w.4.;7.s.6.;8.s.4.;5.s.4.;10.s.9.;5.w.4.;12.w.11.;14.p.13.;5.s.4.;16.w.15.;18.w.17.;20.s.19.;5.w.4.;22.w.21.;24.w.23.|","36:0|1.s.0.;3.w.2.;5.w.4.;7.s.6.;8.p.4.;5.s.4.;10.s.9.;5.s.4.;12.s.11.;14.w.13.;5.s.4.;16.w.15.;18.w.17.;20.s.19.;5.w.4.;22.w.21.;24.w.23.|","37:0|1.s.0.;3.p.2.;5.s.4.;7.s.6.;8.w.4.;5.w.4.;10.p.9.;5.w.4.;12.p.11.;14.p.13.;5.s.4.;16.s.15.;18.s.17.;20.p.19.;5.w.4.;22.w.21.;24.s.23.|","38:0|1.w.0.;3.p.2.;5.w.4.;7.s.6.;8.w.4.;5.w.4.;10.s.9.;5.w.4.;12.s.11.;14.s.13.;5.w.4.;16.p.15.;18.p.17.;20.w.19.;5.s.4.;22.p.21.;24.w.23.|","39:0|1.w.0.;3.w.2.;5.s.4.;7.s.6.;8.w.4.;5.w.4.;10.w.9.;5.s.4.;12.s.11.;14.p.13.;5.w.4.;16.p.15.;18.s.17.;20.w.19.;5.w.4.;22.w.21.;24.s.23.|","40:0|1.w.0.;3.w.2.;5.s.4.;7.w.6.;8.s.4.;5.w.4.;10.w.9.;5.s.4.;12.w.11.;14.s.13.;5.w.4.;16.s.15.;18.s.17.;20.w.19.;5.s.4.;22.w.21.;24.s.23.|","41:0|1.w.0.;3.w.2.;5.w.4.;7.s.6.;8.w.4.;5.w.4.;10.p.9.;5.w.4.;12.s.11.;14.s.13.;5.s.4.;16.w.15.;18.s.17.;20.s.19.;5.w.4.;22.w.21.;24.s.23.|","42:0|1.s.0.;3.w.2.;5.w.4.;7.s.6.;8.s.4.;5.w.4.;10.w.9.;5.w.4.;12.w.11.;14.s.13.;5.s.4.;16.p.15.;18.w.17.;20.s.19.;5.w.4.;22.s.21.;24.w.23.|","43:0|1.w.0.;3.w.2.;5.w.4.;7.p.6.;8.s.4.;5.w.4.;10.p.9.;5.s.4.;12.w.11.;14.p.13.;5.w.4.;16.p.15.;18.p.17.;20.w.19.;5.w.4.;22.p.21.;24.s.23.|","44:0|1.s.0.;3.p.2.;5.w.4.;7.w.6.;8.w.4.;5.s.4.;10.w.9.;5.w.4.;12.w.11.;14.s.13.;5.s.4.;16.w.15.;18.w.17.;20.w.19.;5.s.4.;22.s.21.;24.w.23.|","45:0|1.w.0.;3.s.2.;5.s.4.;7.w.6.;8.s.4.;5.s.4.;10.s.9.;5.s.4.;12.w.11.;14.w.13.;5.w.4.;16.s.15.;18.p.17.;20.w.19.;5.w.4.;22.p.21.;24.w.23.|","46:0|1.w.0.;3.w.2.;5.w.4.;7.w.6.;8.p.4.;5.w.4.;10.w.9.;5.w.4.;12.s.11.;14.s.13.;5.w.4.;16.s.15.;18.p.17.;20.s.19.;5.s.4.;22.p.21.;24.w.23.|","47:0|1.s.0.;3.w.2.;5.w.4.;7.w.6.;8.w.4.;5.s.4.;10.w.9.;5.w.4.;12.w.11.;14.p.13.;5.s.4.;16.w.15.;18.p.17.;20.w.19.;5.s.4.;22.s.21.;24.w.23.|","48:0|1.s.0.;3.s.2.;5.s.4.;7.p.6.;8.p.4.;5.s.4.;10.p.9.;5.w.4.;12.p.11.;14.s.13.;5.s.4.;16.w.15.;18.p.17.;20.p.19.;5.w.4.;22.p.21.;24.w.23.|","49:0|1.w.0.;3.p.2.;5.s.4.;7.w.6.;8.p.4.;5.w.4.;10.w.9.;5.w.4.;12.s.11.;14.w.13.;5.w.4.;16.w.15.;18.s.17.;20.s.19.;5.w.4.;22.s.21.;24.s.23.|","50:0|1.s.0.;3.p.2.;5.s.4.;7.w.6.;8.w.4.;5.w.4.;10.s.9.;5.w.4.;12.w.11.;14.w.13.;5.w.4.;16.w.15.;18.p.17.;20.p.19.;5.s.4.;22.p.21.;24.w.23.|","51:0|1.w.0.;3.p.2.;5.w.4.;7.w.6.;8.s.4.;5.s.4.;10.w.9.;5.s.4.;12.w.11.;14.p.13.;5.s.4.;16.p.15.;18.w.17.;20.w.19.;5.w.4.;22.p.21.;24.w.23.|","52:0|1.w.0.;3.p.2.;5.s.4.;7.s.6.;8.s.4.;5.s.4.;10.s.9.;5.w.4.;12.p.11.;14.s.13.;5.s.4.;16.w.15.;18.p.17.;20.p.19.;5.w.4.;22.w.21.;24.s.23.|","53:0|1.w.0.;3.s.2.;5.w.4.;7.s.6.;8.w.4.;5.w.4.;10.w.9.;5.w.4.;12.s.11.;14.p.13.;5.s.4.;16.w.15.;18.p.17.;20.p.19.;5.w.4.;22.s.21.;24.w.23.|","54:0|1.s.0.;3.s.2.;5.s.4.;7.p.6.;8.p.4.;5.s.4.;10.w.9.;5.s.4.;12.p.11.;14.s.13.;5.s.4.;16.w.15.;18.p.17.;20.w.19.;5.s.4.;22.s.21.;24.w.23.|","55:0|1.w.0.;3.s.2.;5.w.4.;7.w.6.;8.w.4.;5.w.4.;10.w.9.;5.w.4.;12.p.11.;14.s.13.;5.w.4.;16.w.15.;18.w.17.;20.w.19.;5.s.4.;22.s.21.;24.w.23.|","56:0|1.s.0.;3.w.2.;5.w.4.;7.w.6.;8.s.4.;5.w.4.;10.s.9.;5.s.4.;12.w.11.;14.p.13.;5.w.4.;16.s.15.;18.w.17.;20.w.19.;5.s.4.;22.w.21.;24.s.23.|","57:0|1.s.0.;3.w.2.;5.w.4.;7.w.6.;8.w.4.;5.w.4.;10.s.9.;5.s.4.;12.w.11.;14.p.13.;5.s.4.;16.s.15.;18.s.17.;20.s.19.;5.w.4.;22.p.21.;24.w.23.|","58:0|1.s.0.;3.p.2.;5.w.4.;7.w.6.;8.s.4.;5.w.4.;10.w.9.;5.w.4.;12.s.11.;14.p.13.;5.w.4.;16.s.15.;18.p.17.;20.w.19.;5.w.4.;22.s.21.;24.s.23.|","59:0|1.w.0.;3.p.2.;5.w.4.;7.p.6.;8.w.4.;5.w.4.;10.w.9.;5.w.4.;12.w.11.;14.p.13.;5.w.4.;16.p.15.;18.p.17.;20.s.19.;5.w.4.;22.p.21.;24.w.23.|","60:0|1.w.0.;3.w.2.;5.w.4.;7.s.6.;8.w.4.;5.w.4.;10.s.9.;5.w.4.;12.s.11.;14.p.13.;5.s.4.;16.w.15.;18.p.17.;20.w.19.;5.w.4.;22.w.21.;24.w.23.|","61:0|1.w.0.;3.w.2.;5.w.4.;7.w.6.;8.p.4.;5.s.4.;10.p.9.;5.s.4.;12.p.11.;14.s.13.;5.w.4.;16.w.15.;18.p.17.;20.s.19.;5.w.4.;22.p.21.;24.w.23.|","62:0|1.w.0.;3.s.2.;5.w.4.;7.s.6.;8.w.4.;5.s.4.;10.p.9.;5.s.4.;12.w.11.;14.w.13.;5.w.4.;16.p.15.;18.p.17.;20.p.19.;5.s.4.;22.p.21.;24.w.23.|","63:0|1.w.0.;3.w.2.;5.s.4.;7.s.6.;8.w.4.;5.w.4.;10.s.9.;5.s.4.;12.w.11.;14.p.13.;5.w.4.;16.p.15.;18.s.17.;20.s.19.;5.s.4.;22.p.21.;24.s.23.|","64:0|1.w.0.;3.p.2.;5.s.4.;7.p.6.;8.s.4.;5.s.4.;10.p.9.;5.s.4.;12.p.11.;14.w.13.;5.s.4.;16.p.15.;18.p.17.;20.w.19.;5.s.4.;22.s.21.;24.s.23.|","65:0|1.s.0.;3.w.2.;5.w.4.;7.w.6.;8.s.4.;5.s.4.;10.p.9.;5.s.4.;12.w.11.;14.w.13.;5.w.4.;16.s.15.;18.w.17.;20.p.19.;5.s.4.;22.p.21.;24.w.23.|","66:0|1.w.0.;3.w.2.;5.w.4.;7.p.6.;8.s.4.;5.s.4.;10.p.9.;5.s.4.;12.p.11.;14.p.13.;5.w.4.;16.p.15.;18.p.17.;20.w.19.;5.w.4.;22.s.21.;24.w.23.|","67:0|1.s.0.;3.s.2.;5.w.4.;7.s.6.;8.s.4.;5.s.4.;10.s.9.;5.s.4.;12.w.11.;14.p.13.;5.s.4.;16.p.15.;18.w.17.;20.s.19.;5.s.4.;22.p.21.;24.w.23.|","68:0|1.s.0.;3.p.2.;5.w.4.;7.w.6.;8.s.4.;5.w.4.;10.p.9.;5.w.4.;12.w.11.;14.p.13.;5.w.4.;16.w.15.;18.p.17.;20.s.19.;5.w.4.;22.s.21.;24.w.23.|","69:0|1.w.0.;3.s.2.;5.w.4.;7.p.6.;8.w.4.;5.s.4.;10.p.9.;5.w.4.;12.s.11.;14.p.13.;5.s.4.;16.w.15.;18.p.17.;20.w.19.;5.w.4.;22.p.21.;24.w.23.|","70:0|1.w.0.;3.p.2.;5.s.4.;7.w.6.;8.s.4.;5.w.4.;10.w.9.;5.s.4.;12.w.11.;14.w.13.;5.s.4.;16.w.15.;18.p.17.;20.w.19.;5.s.4.;22.p.21.;24.w.23.|","71:0|1.w.0.;3.p.2.;5.w.4.;7.w.6.;8.p.4.;5.s.4.;10.p.9.;5.w.4.;12.s.11.;14.p.13.;5.s.4.;16.w.15.;18.p.17.;20.w.19.;5.s.4.;22.s.21.;24.w.23.|","72:0|1.w.0.;3.w.2.;5.s.4.;7.w.6.;8.w.4.;5.w.4.;10.w.9.;5.w.4.;12.p.11.;14.w.13.;5.w.4.;16.w.15.;18.p.17.;20.s.19.;5.w.4.;22.p.21.;24.w.23.|","73:0|1.w.0.;3.p.2.;5.s.4.;7.w.6.;8.p.4.;5.w.4.;10.w.9.;5.s.4.;12.w.11.;14.p.13.;5.w.4.;16.p.15.;18.p.17.;20.s.19.;5.s.4.;22.p.21.;24.w.23.|","74:0|1.w.0.;3.p.2.;5.w.4.;7.p.6.;8.s.4.;5.s.4.;10.s.9.;5.s.4.;12.w.11.;14.p.13.;5.s.4.;16.p.15.;18.s.17.;20.w.19.;5.w.4.;22.p.21.;24.s.23.|","75:0|1.s.0.;3.p.2.;5.w.4.;7.w.6.;8.p.4.;5.w.4.;10.w.9.;5.w.4.;12.w.11.;14.s.13.;5.s.4.;16.w.15.;18.s.17.;20.w.19.;5.w.4.;22.p.21.;24.w.23.|","76:0|1.w.0.;3.w.2.;5.w.4.;7.s.6.;8.w.4.;5.w.4.;10.w.9.;5.s.4.;12.w.11.;14.p.13.;5.w.4.;16.w.15.;18.p.17.;20.p.19.;5.s.4.;22.s.21.;24.w.23.|","77:0|1.w.0.;3.w.2.;5.s.4.;7.w.6.;8.w.4.;5.w.4.;10.w.9.;5.s.4.;12.w.11.;14.w.13.;5.s.4.;16.s.15.;18.p.17.;20.s.19.;5.w.4.;22.s.21.;24.s.23.|","78:0|1.w.0.;3.w.2.;5.w.4.;7.s.6.;8.w.4.;5.w.4.;10.s.9.;5.s.4.;12.w.11.;14.s.13.;5.w.4.;16.p.15.;18.w.17.;20.w.19.;5.s.4.;22.s.21.;24.w.23.|","79:0|1.s.0.;3.p.2.;5.w.4.;7.w.6.;8.w.4.;5.w.4.;10.w.9.;5.w.4.;12.p.11.;14.w.13.;5.s.4.;16.p.15.;18.s.17.;20.p.19.;5.w.4.;22.s.21.;24.s.23.|","80:0|1.s.0.;3.w.2.;5.s.4.;7.s.6.;8.w.4.;5.s.4.;10.p.9.;5.s.4.;12.s.11.;14.p.13.;5.w.4.;16.w.15.;18.s.17.;20.w.19.;5.w.4.;22.p.21.;24.s.23.|","81:0|1.w.0.;3.s.2.;5.s.4.;7.s.6.;8.p.4.;5.s.4.;10.p.9.;5.w.4.;12.p.11.;14.p.13.;5.s.4.;16.p.15.;18.s.17.;20.p.19.;5.w.4.;22.w.21.;24.s.23.|","82:0|1.w.0.;3.w.2.;5.w.4.;7.p.6.;8.s.4.;5.s.4.;10.w.9.;5.s.4.;12.p.11.;14.s.13.;5.s.4.;16.w.15.;18.p.17.;20.p.19.;5.w.4.;22.s.21.;24.w.23.|","83:0|1.s.0.;3.w.2.;5.s.4.;7.w.6.;8.s.4.;5.w.4.;10.w.9.;5.s.4.;12.w.11.;14.w.13.;5.s.4.;16.p.15.;18.p.17.;20.p.19.;5.w.4.;22.p.21.;24.s.23.|","84:0|1.s.0.;3.s.2.;5.w.4.;7.w.6.;8.p.4.;5.w.4.;10.p.9.;5.w.4.;12.s.11.;14.w.13.;5.s.4.;16.p.15.;18.p.17.;20.w.19.;5.w.4.;22.p.21.;24.s.23.|","85:0|1.s.0.;3.w.2.;5.w.4.;7.w.6.;8.p.4.;5.s.4.;10.s.9.;5.w.4.;12.s.11.;14.w.13.;5.w.4.;16.s.15.;18.w.17.;20.p.19.;5.w.4.;22.w.21.;24.w.23.|","86:0|1.s.0.;3.p.2.;5.s.4.;7.w.6.;8.p.4.;5.s.4.;10.p.9.;5.s.4.;12.p.11.;14.w.13.;5.s.4.;16.p.15.;18.p.17.;20.p.19.;5.w.4.;22.w.21.;24.w.23.|","87:0|1.s.0.;3.p.2.;5.w.4.;7.w.6.;8.p.4.;5.s.4.;10.w.9.;5.s.4.;12.w.11.;14.w.13.;5.w.4.;16.s.15.;18.w.17.;20.w.19.;5.w.4.;22.w.21.;24.s.23.|","88:0|1.w.0.;3.p.2.;5.w.4.;7.w.6.;8.w.4.;5.s.4.;10.p.9.;5.s.4.;12.p.11.;14.w.13.;5.w.4.;16.s.15.;18.p.17.;20.p.19.;5.w.4.;22.p.21.;24.s.23.|","89:0|1.s.0.;3.p.2.;5.w.4.;7.w.6.;8.s.4.;5.w.4.;10.s.9.;5.w.4.;12.s.11.;14.w.13.;5.s.4.;16.p.15.;18.p.17.;20.w.19.;5.s.4.;22.p.21.;24.s.23.|","90:0|1.s.0.;3.p.2.;5.s.4.;7.s.6.;8.p.4.;5.w.4.;10.w.9.;5.w.4.;12.w.11.;14.w.13.;5.s.4.;16.s.15.;18.w.17.;20.s.19.;5.s.4.;22.w.21.;24.w.23.|","91:0|1.w.0.;3.s.2.;5.w.4.;7.w.6.;8.w.4.;5.s.4.;10.p.9.;5.s.4.;12.w.11.;14.p.13.;5.s.4.;16.w.15.;18.p.17.;20.s.19.;5.w.4.;22.p.21.;24.w.23.|","92:0|1.s.0.;3.p.2.;5.w.4.;7.w.6.;8.s.4.;5.s.4.;10.s.9.;5.s.4.;12.p.11.;14.w.13.;5.w.4.;16.s.15.;18.p.17.;20.w.19.;5.s.4.;22.p.21.;24.s.23.|","93:0|1.w.0.;3.w.2.;5.w.4.;7.p.6.;8.s.4.;5.s.4.;10.p.9.;5.w.4.;12.p.11.;14.p.13.;5.w.4.;16.p.15.;18.w.17.;20.w.19.;5.s.4.;22.w.21.;24.w.23.|","94:0|1.w.0.;3.w.2.;5.w.4.;7.s.6.;8.s.4.;5.s.4.;10.s.9.;5.w.4.;12.w.11.;14.w.13.;5.w.4.;16.s.15.;18.w.17.;20.w.19.;5.s.4.;22.w.21.;24.w.23.|","95:0|1.w.0.;3.s.2.;5.w.4.;7.s.6.;8.p.4.;5.w.4.;10.w.9.;5.s.4.;12.w.11.;14.w.13.;5.w.4.;16.p.15.;18.s.17.;20.p.19.;5.s.4.;22.w.21.;24.s.23.|","96:0|1.w.0.;3.w.2.;5.w.4.;7.w.6.;8.w.4.;5.w.4.;10.w.9.;5.s.4.;12.w.11.;14.p.13.;5.s.4.;16.w.15.;18.p.17.;20.s.19.;5.w.4.;22.w.21.;24.w.23.|","97:0|1.w.0.;3.p.2.;5.s.4.;7.s.6.;8.p.4.;5.w.4.;10.p.9.;5.s.4.;12.w.11.;14.p.13.;5.w.4.;16.s.15.;18.w.17.;20.w.19.;5.w.4.;22.p.21.;24.w.23.|","98:0|1.w.0.;3.w.2.;5.s.4.;7.w.6.;8.w.4.;5.s.4.;10.w.9.;5.s.4.;12.p.11.;14.p.13.;5.s.4.;16.p.15.;18.w.17.;20.w.19.;5.w.4.;22.s.21.;24.w.23.|","99:0|1.w.0.;3.w.2.;5.s.4.;7.w.6.;8.p.4.;5.w.4.;10.w.9.;5.s.4.;12.s.11.;14.w.13.;5.w.4.;16.p.15.;18.s.17.;20.p.19.;5.w.4.;22.w.21.;24.w.23.|","100:0|1.w.0.;3.w.2.;5.s.4.;7.s.6.;8.p.4.;5.w.4.;10.s.9.;5.w.4.;12.s.11.;14.s.13.;5.s.4.;16.s.15.;18.s.17.;20.s.19.;5.w.4.;22.p.21.;24.w.23.|"],"quiet":[3.7,3.8,3.5,3.7,3.7,3.5,3.7,3.7,3.7,3.7,3.8,3.5,3.5,3.7,3.8,3.5,3.7,3.7,3.7,3.5,3.7,3.5,3.7,3.7,3.8,3.8,3.7,3.7,3.7,3.7,3.5,3.5,3.5,3.5,3.7,3.7,3.5,3.5,3.7,3.5,3.5,3.5,3.7,3.4,3.8,3.7,3.5,3.5,3.5,3.5,3.7,3.8,3.7,3.7,3.5,3.7,3.7,3.5,3.5,3.7,3.8,3.7,3.5,3.5,3.7,3.8,3.7,3.7,3.8,3.5,3.5,3.7,3.7,3.7,3.7,3.7,3.5,3.7,3.5,3.7,3.7,3.7,3.5,3.8,3.8,3.8,3.5,3.5,3.7,3.7,3.8,3.8,3.7,3.5,3.5,3.7,3.5,3.7,3.7,3.5],"outro":[926,939,934,939,927,931,927,930,929,935,929,933,931,930,934,935,933,936,925,932,927,925,935,925,930,938,939,937,934,925,939,922,934,925,936,930,920,924,928,938,926,927,933,938,931,924,928,924,923,927,940,936,933,939,921,923,920,926,929,932,933,921,922,927,936,930,926,925,930,921,923,920,934,937,934,931,924,934,920,937,940,927,928,926,920,928,929,936,937,922,929,926,923,934,924,929,933,937,926,939]};

diff --git a/src/game/riverArt.ts b/src/game/riverArt.ts
@@ -97,6 +97,28 @@ export function safeRiverArtReady(): boolean {
   loadShallow();
   return shallowReady && !!shallow;
 }
+/**
+ * A safe river's water drawn again OVER what floats in it (the engine's over pass, after the platforms): only a short band at the log
+ * line, the shallow strip's own top rows at part strength, so a log sinks into the same light water it floats on; never the deep river's
+ * dark sheet down to the screen's foot, which made every safe river read as deep (the lead's still review 11-15 1:36 PM ET, FIX-21).
+ * The band slides with the strip under it (drawRiverWater's shift). False when the strip has not loaded (the caller draws nothing).
+ */
+export const SAFE_OVER = { above: 4, below: 16, alpha: 0.6 } as const;
+export function drawSafeRiverOver(ctx: CanvasRenderingContext2D, x0: number, x1: number, surfaceY: number, t: number, dir: 1 | -1, speed: number): boolean {
+  if (!safeRiverArtReady()) return false;
+  const L = RIVER_LOOK.safe;
+  const top = surfaceY - L.h * L.crest;
+  const shift = (((t * speed * 0.35 * dir) % L.w) + L.w) % L.w;
+  const start = Math.floor((x0 - shift) / L.w) * L.w + shift;
+  ctx.save();
+  ctx.beginPath();
+  ctx.rect(x0, surfaceY - SAFE_OVER.above, x1 - x0, SAFE_OVER.above + SAFE_OVER.below);
+  ctx.clip();
+  ctx.globalAlpha *= SAFE_OVER.alpha;
+  for (let x = start; x < x1; x += L.w - 1) ctx.drawImage(shallow!, x, top, L.w, L.h);
+  ctx.restore();
+  return true;
+}
 /** how wide one repeat of the water strip is drawn, in world units */
 const WATER_TILE = 300;
 

diff --git a/src/game/engine.ts b/src/game/engine.ts
@@ -104,7 +104,7 @@ import { stageClock, type StageClock } from './clock.ts';
 import { moveRide } from './ridePlay.ts';
 /** how far inside a bank's end the water drawn over him stays (its painted face leans up to about this far) */
 const ZONE_INSET = 14;
-import { drawLadder, drawLily, drawLogComing, drawRiverFoam, drawRiverLog, drawRiverWater, drawW2Cage, drawW2Decor, drawW2Lift, riverArtReady } from './riverArt.ts';
+import { drawLadder, drawLily, drawLogComing, drawRiverFoam, drawRiverLog, drawRiverWater, drawSafeRiverOver, drawW2Cage, drawW2Decor, drawW2Lift, riverArtReady } from './riverArt.ts';
 import { rideHidden, ridersOf, stepRiders, type Riders } from './ridePickups.ts';
 import { RIDE } from './ride.ts';
 import { driftCycle, driftProgress, driftX, floodLevel, logClock, logKnocks, LOG_DROP, DRIFT_CATCH } from './river.ts';
@@ -6142,6 +6142,9 @@ export class GameEngine {
             }
           }
         }
+      } else if (r.safe) {
+        // (a safe river: a short band of its own shallow water at the log line, never the deep sheet below; nothing until its strip loads)
+        if (painted && drawSafeRiverOver(ctx, a, b, r.surfaceY, t, r.dir, r.speed)) for (let x = Math.floor(a / 54) * 54; x <= b + 54; x += 54) drawRiverFoam(ctx, Math.round(x / 54), x, wave(x) + 3, 70, 0.8, Math.round(x / 54) % 2 === 0);
       } else {
         const g = ctx.createLinearGradient(0, r.surfaceY, 0, r.surfaceY + 60);
         // (the painted river's own colours when it is painted, so the logs sink into the same water)

diff --git a/src/game/gen2/provenIndex.ts b/src/game/gen2/provenIndex.ts
@@ -9,6 +9,6 @@ export const PROVEN_INDEX: Record<string, { n: number; version: string; load: ()
   '1-4': { n: 100, version: '6b772e6e', load: () => import('./proven/seeds-1-4.ts') },
   '1-5': { n: 150, version: '957ac56d', load: () => import('./proven/seeds-1-5.ts') },
   '1-7': { n: 100, version: '845c521d', load: () => import('./proven/seeds-1-7.ts') },
-  '2-1': { n: 100, version: '14b04d82', load: () => import('./proven/seeds-2-1.ts') },
+  '2-1': { n: 100, version: 'e29bb257', load: () => import('./proven/seeds-2-1.ts') },
   '2-2': { n: 100, version: '675eea31', load: () => import('./proven/seeds-2-2.ts') },
 };
